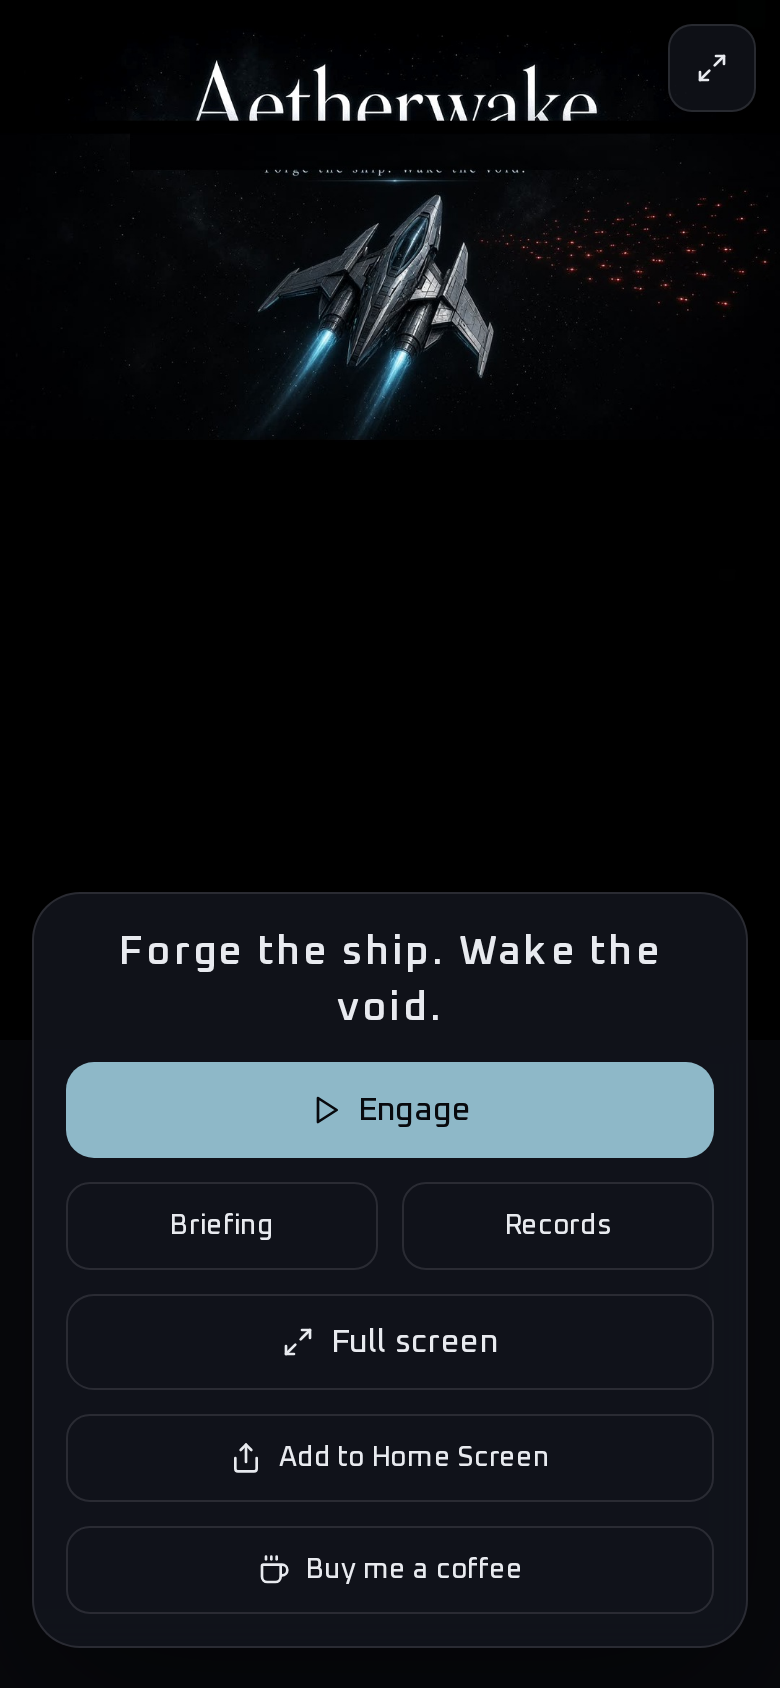
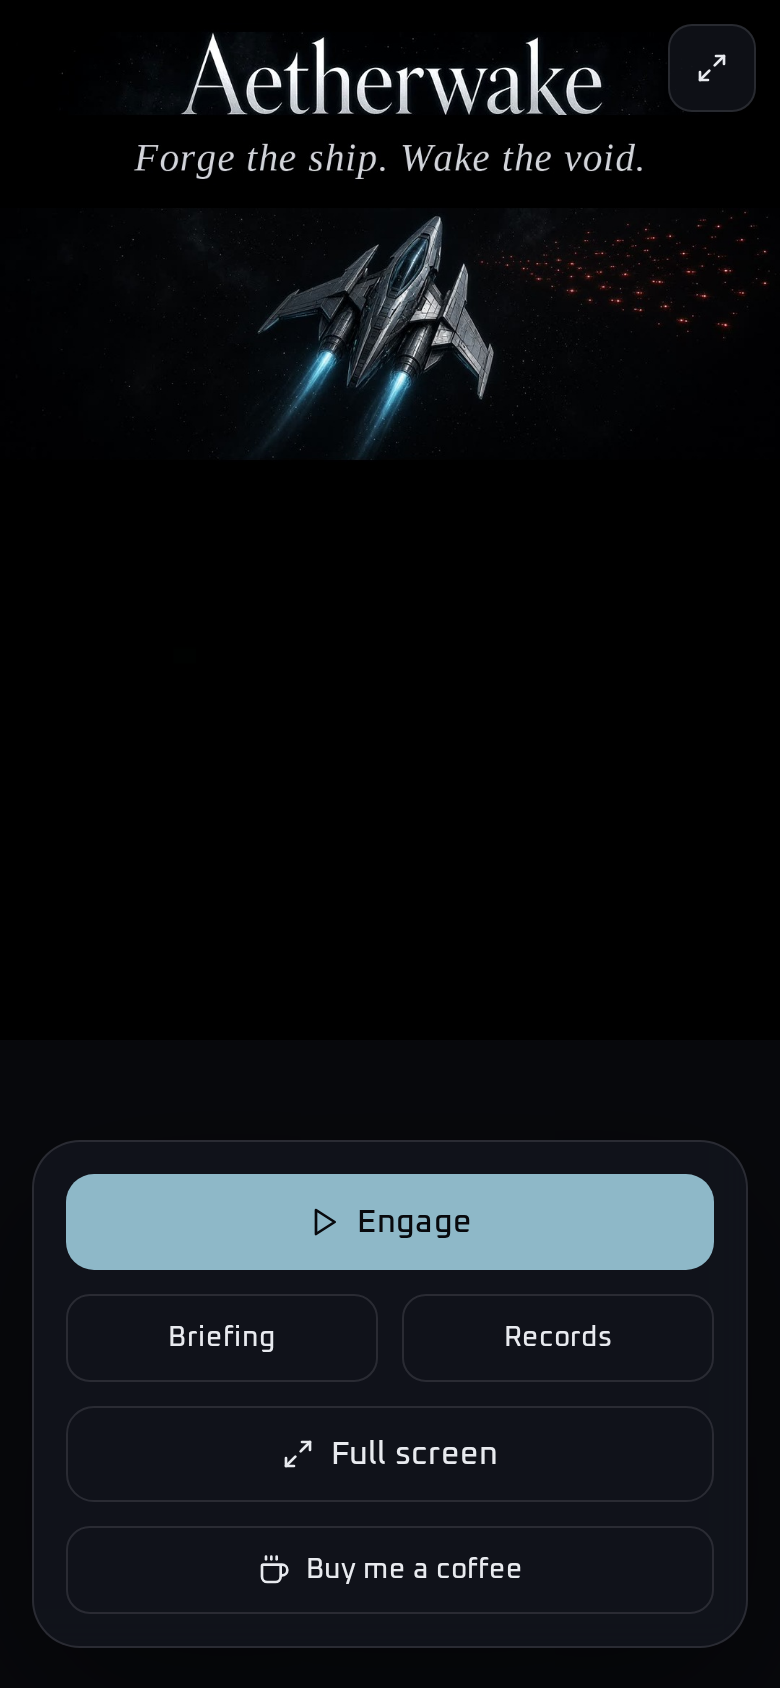
Export from Grok

diff --git a/src/components/game-overlays.tsx b/src/components/game-overlays.tsx
@@ -63,10 +63,10 @@ function CoffeeLink({ className }: { className?: string }) {
 export function TitleScreen() {
   const api = useGame((s) => s.api);
   return (
-    <div className="absolute inset-0 z-20 flex min-h-0 flex-col">
+    <div className="absolute inset-0 z-20 flex min-h-0 flex-col" aria-label="Aetherwake. Forge the ship. Wake the void.">
       <div className="absolute inset-0 overflow-hidden bg-bg">
         <img
-          src="/title-mobile.jpg"
+          src="/title-lockup.jpg"
           alt=""
           width={1080}
           height={1440}
@@ -86,16 +86,13 @@ export function TitleScreen() {
           className="pointer-events-none absolute inset-0 hidden h-full w-full select-none object-cover object-center sm:block"
         />
         <div
-          className="pointer-events-none absolute inset-x-0 bottom-0 h-[40%] bg-gradient-to-t from-bg via-bg/70 to-transparent sm:h-1/3"
+          className="pointer-events-none absolute inset-x-0 bottom-0 h-[22%] bg-gradient-to-t from-bg to-transparent sm:h-1/3"
           aria-hidden
         />
       </div>
       <div className="pointer-events-auto relative z-10 mt-auto mx-auto w-full max-w-[440px] shrink-0 px-4 pb-[max(1.25rem,env(safe-area-inset-bottom))] pt-2 sm:pb-6">
         <div className="rounded-xl border border-border bg-surface/90 p-4 text-fg shadow-[0_24px_80px_rgba(0,0,0,0.5)] backdrop-blur-sm">
           <div className="flex flex-col gap-3">
-            <p className="px-1 text-center font-display text-[clamp(1.15rem,5.2vw,1.55rem)] font-semibold leading-snug tracking-[0.08em] text-fg sm:hidden">
-              Forge the ship. Wake the void.
-            </p>
             <Button size="lg" className="w-full" disabled={!api} onClick={() => api?.start()}>
               <Play className="size-4" />
               Engage
